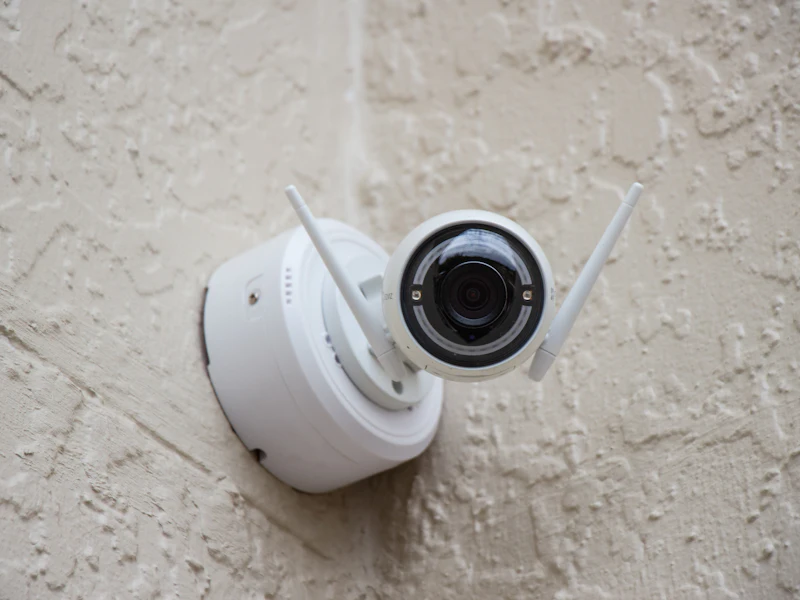
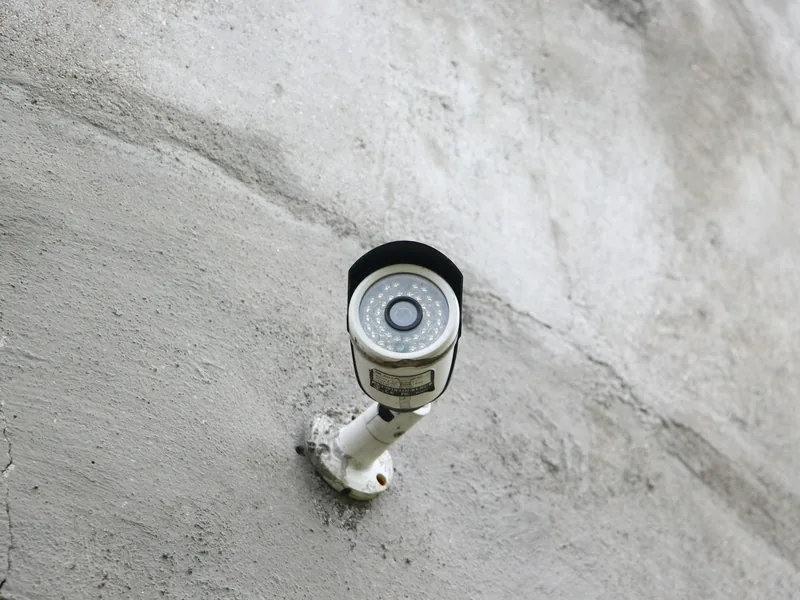
Indian solution photos

diff --git a/client/src/data/home.js b/client/src/data/home.js
@@ -57,12 +57,12 @@ export const solutions = {
   body: ['The right NAS depends on what you do with your data.'],
   // `setup` is a typical starting configuration: a concrete answer, not a promise.
   cards: [
-    { slug: 'photographers', image: '/images/solutions/photographers.webp', alt: 'Hands holding a camera at golden hour', title: 'Photographers', body: 'RAW files, client projects and a photo library that keeps growing.', setup: '4-bay · RAID 5 · 2.5GbE', cta: 'Explore Photography NAS' },
-    { slug: 'videographers', image: '/images/solutions/videographers.webp', alt: 'Video editor working on a timeline at his desk', title: 'Videographers', body: 'Large footage, project assets and archives, fast enough to edit from.', setup: '4–8 bay · RAID 5 · 2.5–10GbE', cta: 'Explore Video NAS' },
-    { slug: 'creators', image: '/images/solutions/creators.webp', alt: 'Camera and microphone set up for recording', title: 'Creators', body: 'Media, working files and backups in one organised system.', setup: '4-bay · RAID 5 · NVMe cache', cta: 'Explore Creator NAS' },
-    { slug: 'business', image: '/images/solutions/business.webp', alt: 'A team working together on laptops', title: 'Business', body: 'Company files with user access, backups and team collaboration.', setup: '4–8 bay · RAID 5/6 · ECC memory', cta: 'Explore Business NAS' },
-    { slug: 'home', image: '/images/solutions/home.webp', alt: 'A family relaxing together at home', title: 'Home', body: 'A private cloud for family photos, videos, backups and documents.', setup: '2-bay · RAID 1 mirror', cta: 'Explore Home NAS' },
-    { slug: 'surveillance', image: '/images/solutions/surveillance.webp', alt: 'Security camera mounted on a wall', title: 'Surveillance', body: 'Continuous recording from many cameras, kept safe and searchable.', setup: '4-bay+ · RAID 5 · 24/7 drives', cta: 'Explore Surveillance NAS' },
+    { slug: 'photographers', image: '/images/solutions/photographers.webp', alt: 'A photographer with his camera in an old Indian street', title: 'Photographers', body: 'RAW files, client projects and a photo library that keeps growing.', setup: '4-bay · RAID 5 · 2.5GbE', cta: 'Explore Photography NAS' },
+    { slug: 'videographers', image: '/images/solutions/videographers.webp', alt: 'A video editor with headphones cutting footage on a desktop', title: 'Videographers', body: 'Large footage, project assets and archives, fast enough to edit from.', setup: '4–8 bay · RAID 5 · 2.5–10GbE', cta: 'Explore Video NAS' },
+    { slug: 'creators', image: '/images/solutions/creators.webp', alt: 'A content creator with headphones at his recording desk', title: 'Creators', body: 'Media, working files and backups in one organised system.', setup: '4-bay · RAID 5 · NVMe cache', cta: 'Explore Creator NAS' },
+    { slug: 'business', image: '/images/solutions/business.webp', alt: 'An Indian office team in a meeting room', title: 'Business', body: 'Company files with user access, backups and team collaboration.', setup: '4–8 bay · RAID 5/6 · ECC memory', cta: 'Explore Business NAS' },
+    { slug: 'home', image: '/images/solutions/home.webp', alt: 'A family at home: father, toddler and mother in a saree', title: 'Home', body: 'A private cloud for family photos, videos, backups and documents.', setup: '2-bay · RAID 1 mirror', cta: 'Explore Home NAS' },
+    { slug: 'surveillance', image: '/images/solutions/surveillance.webp', alt: 'A CCTV camera mounted on a plastered wall', title: 'Surveillance', body: 'Continuous recording from many cameras, kept safe and searchable.', setup: '4-bay+ · RAID 5 · 24/7 drives', cta: 'Explore Surveillance NAS' },
   ],
   cta: 'Explore All NAS Solutions',
 };

diff --git a/client/public/images/solutions/CREDITS.md b/client/public/images/solutions/CREDITS.md
@@ -1,13 +1,14 @@
-# Solution card photos
+# NAS solutions photos
 
-All from Unsplash (https://unsplash.com/license): free for commercial use, no attribution required.
-Downloaded 26 Sep 2026 at 800×600, cropped, WebP.
+Real photographs of Indian people and places, from Unsplash (https://unsplash.com/license):
+free for commercial use, no attribution required (credited here anyway). Downloaded 13 Oct 2026,
+cropped to 4:3, WebP. `-480.webp` files are smaller copies served to phones through srcset.
 
-| File | Unsplash photo |
-|---|---|
-| photographers.webp | https://unsplash.com/photos/1590486803833-1c5dc8ddd4c8 |
-| videographers.webp | https://unsplash.com/photos/1627244714766-94dab62ed964 |
-| creators.webp | https://unsplash.com/photos/1764664035133-0d2ca12016dd |
-| business.webp | https://unsplash.com/photos/1522071820081-009f0129c71c |
-| home.webp | https://unsplash.com/photos/1704240958715-22c4ba121773 |
-| surveillance.webp | https://unsplash.com/photos/1549109926-58f039549485 |
+| File | Photographer | Unsplash photo |
+|---|---|---|
+| photographers.webp | Aejaz Memon | https://unsplash.com/photos/a-man-walking-down-a-street-holding-a-cell-phone-akPqU03pJ7c |
+| videographers.webp | Harsh Gadhiya | https://unsplash.com/photos/a-man-sitting-in-front-of-a-computer-with-headphones-on-1XwEmRKIzig |
+| creators.webp | Hitesh Choudhary | https://unsplash.com/photos/a-man-wearing-headphones-sitting-at-a-table-01_cE4yUgOA |
+| business.webp | Smartworks Coworking | https://unsplash.com/photos/people-sitting-at-the-table-looking-to-another-person-standing-in-front-of-them-Uz8THWPXwhI |
+| home.webp | CR | https://unsplash.com/photos/a-family-sitting-on-the-floor-in-front-of-a-decorated-wall-LvelDKbCeZg |
+| surveillance.webp | MF Mohomed | https://unsplash.com/photos/a-security-camera-mounted-on-the-side-of-a-building-NpBtMcQGTL0 |
